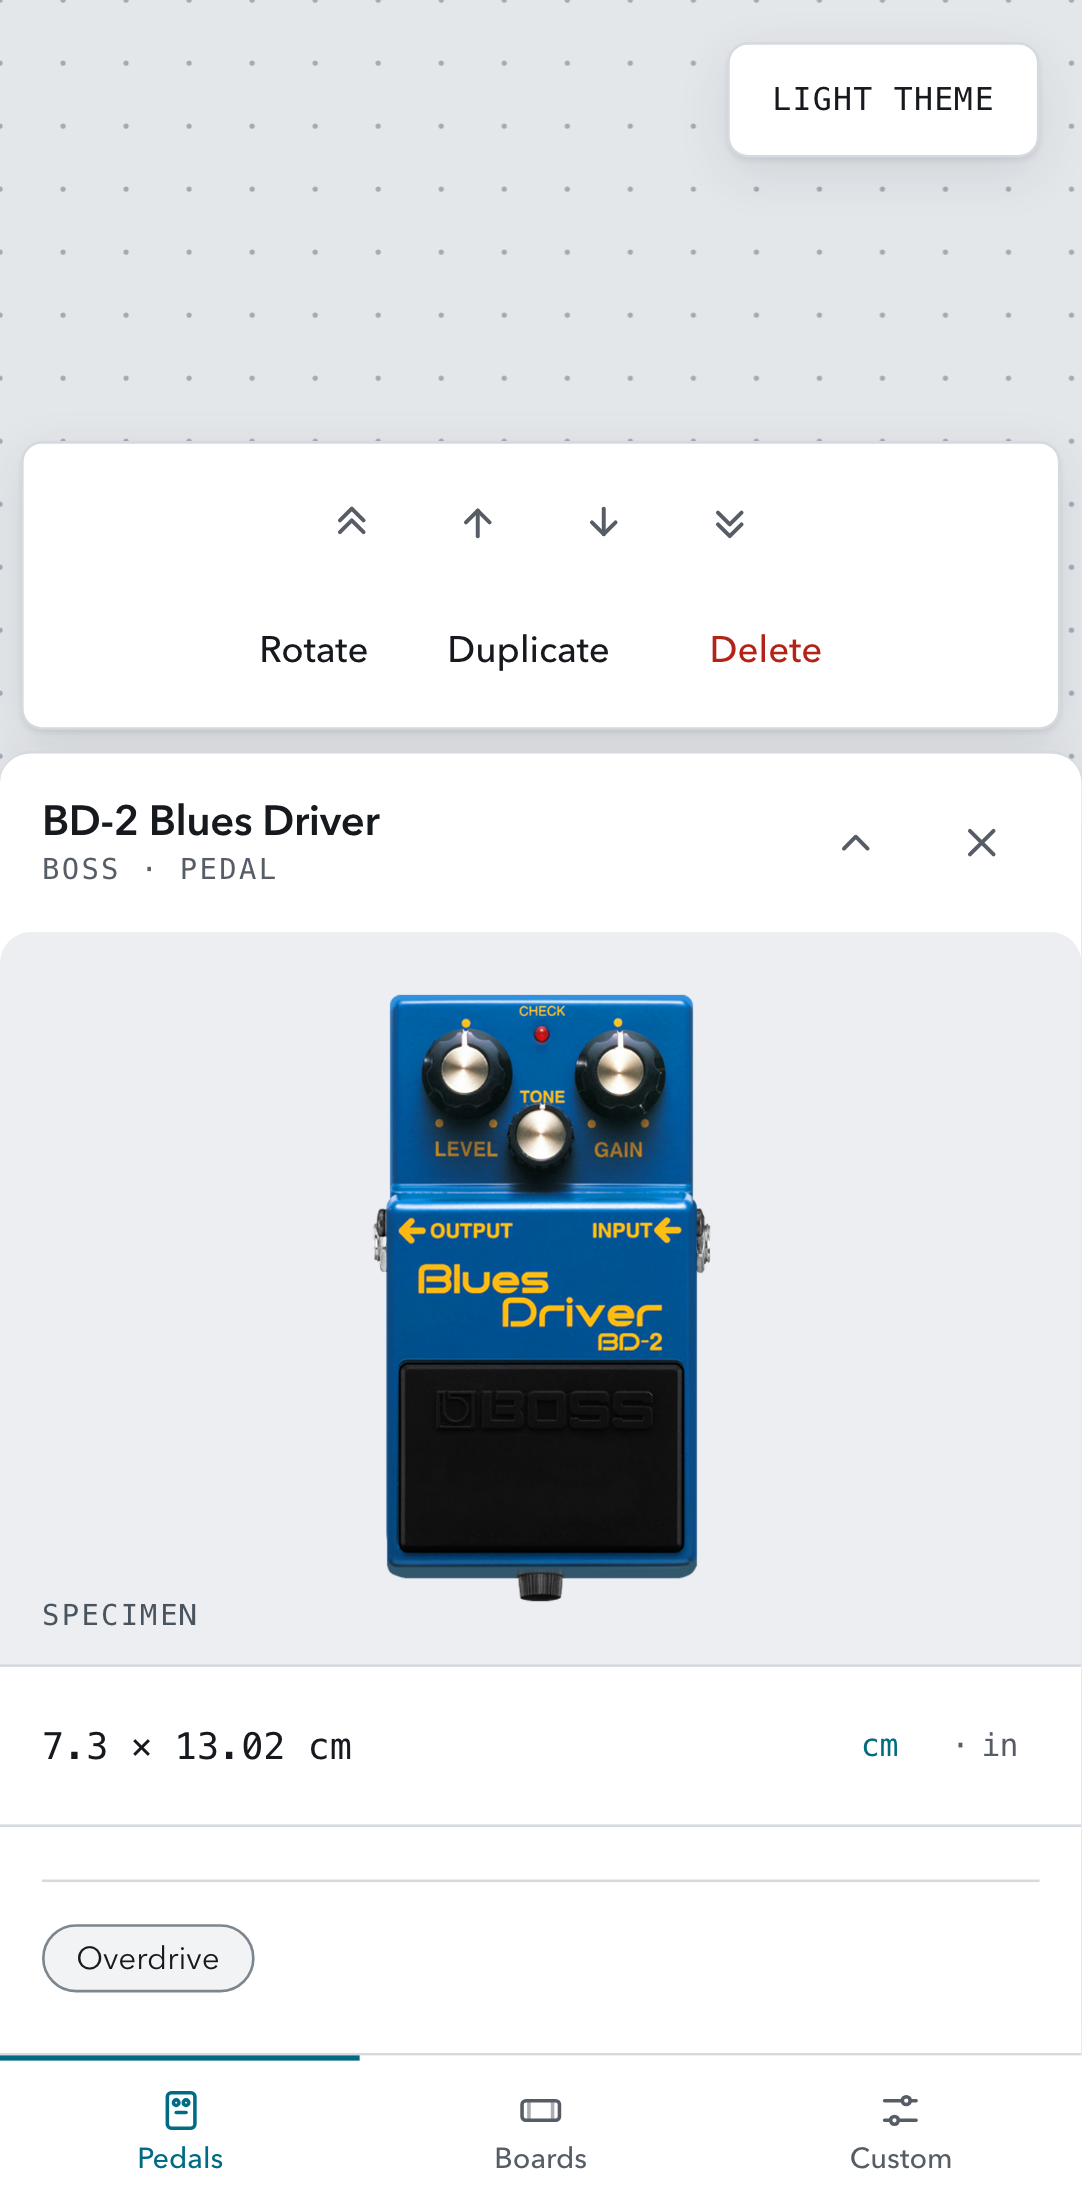
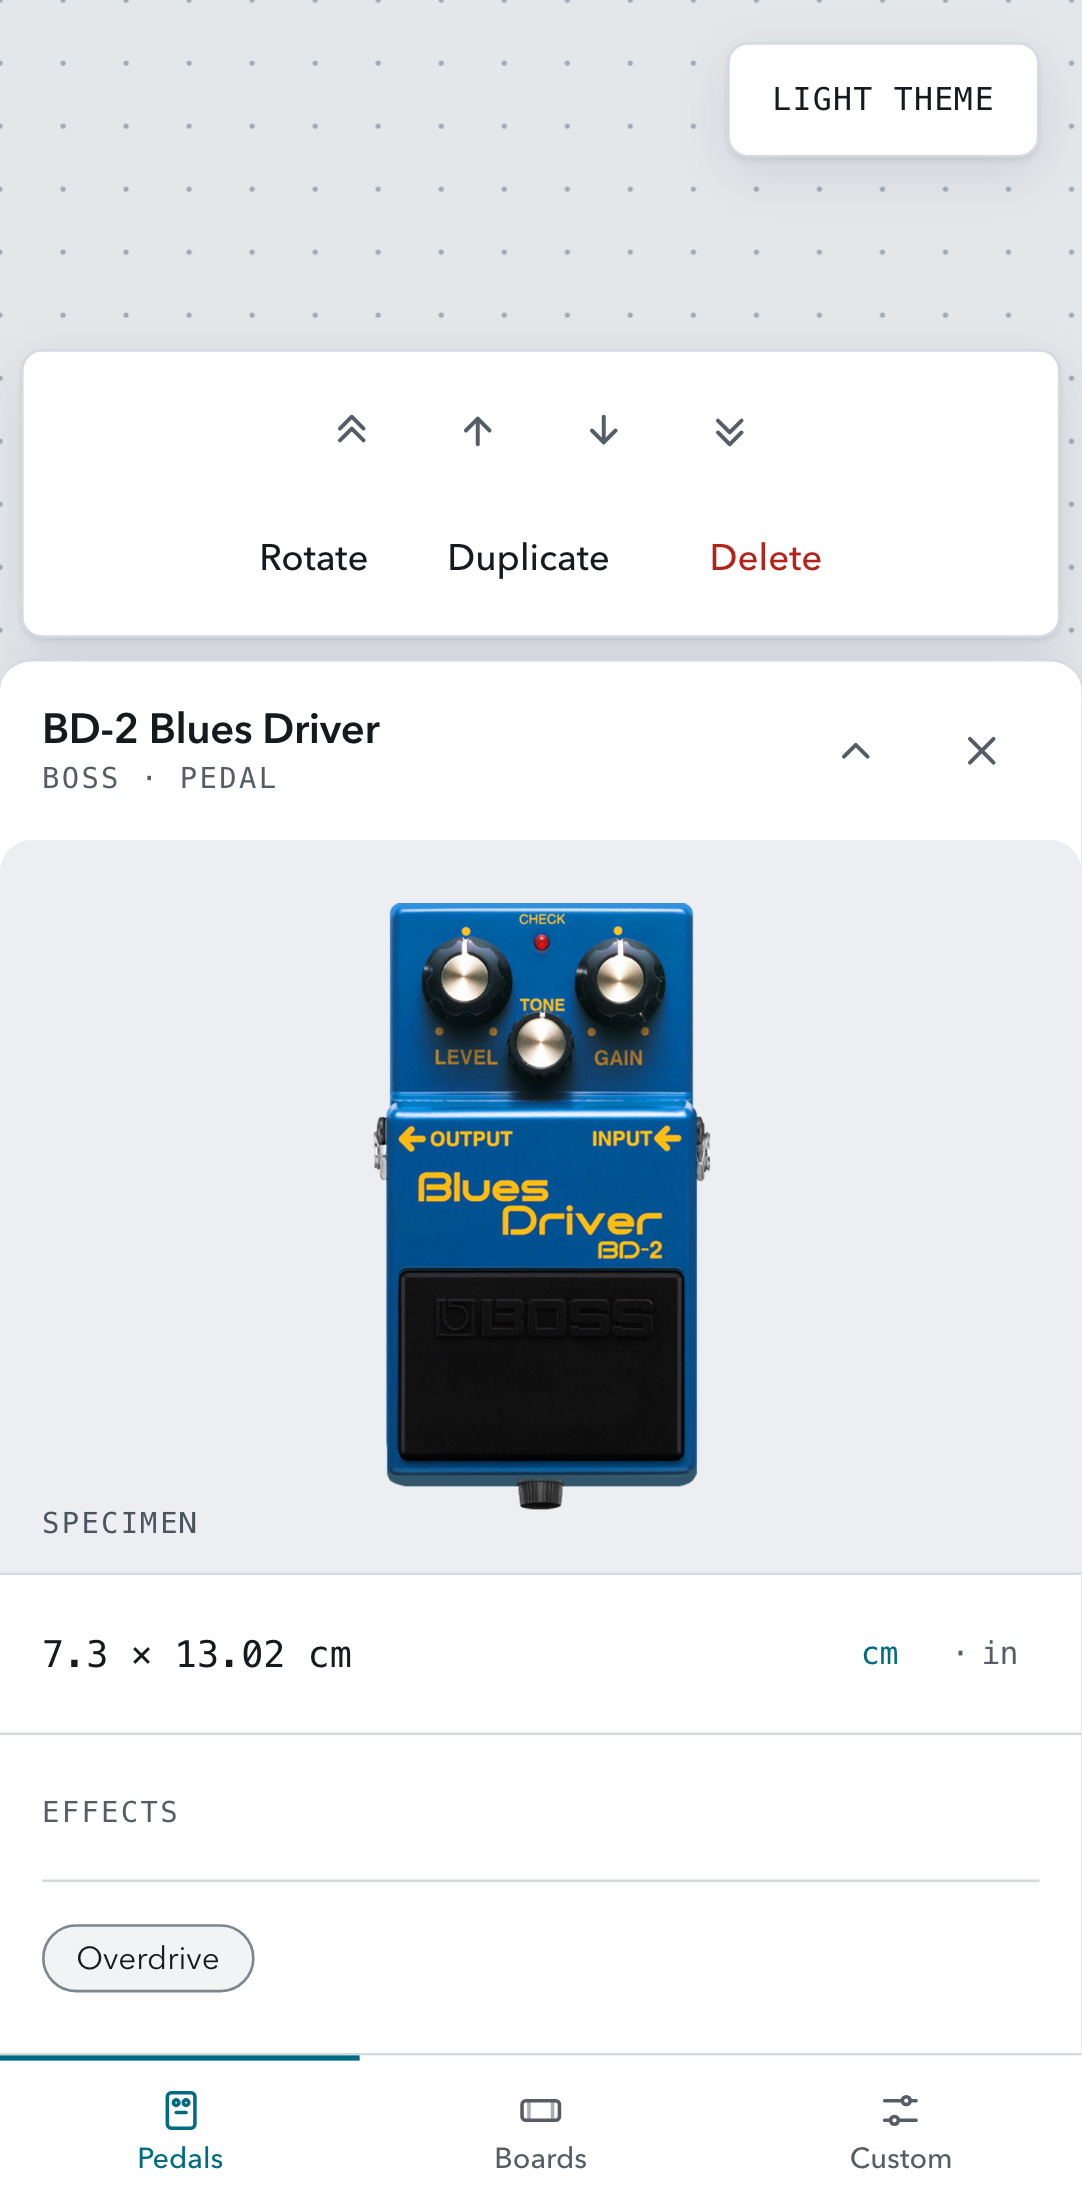
P2-03: round 3 code-review fixes (Specimen Cover)
- Scope the mobile peek's eyebrow/brand hide to the HEADER only (the rule was
  also hiding the expanded readout's EFFECTS/JACKS/POWER section titles).
- Bind onError on the peek sleeve img (while collapsed the banner is
  display:none, so the sleeve is the only requester — its failure must advance
  the loader ladder to the glyph fallback).
- Give the peek warning chip an aria-label with the full sentence (the bare
  'Overlap'/'Off board' text was under-descriptive for screen readers).
- e2e: assert the full warning band is hidden while collapsed (one live region),
  and hidden chip / visible band after expanding.

diff --git a/e2e/info-panel.spec.ts b/e2e/info-panel.spec.ts
@@ -159,15 +159,19 @@ test("the mobile peek shows the cover sleeve and warning chip, then expands to t
 	await expect(page.getByTestId("info-peek-dims")).toBeVisible();
 	await expect(page.getByTestId("info-preview")).toBeHidden();
 
-	// An overlap surfaces the compact chip in the peek.
+	// An overlap surfaces the compact chip in the peek (and NOT the full band,
+	// which is the expanded/desktop form) — exactly one live region is shown.
 	await page.getByTestId("duplicate-item").click();
 	await expect(page.getByTestId("info-warning-chip")).toBeVisible();
+	await expect(page.getByTestId("info-warning")).toBeHidden();
 
 	// Expand: the banner (hero) replaces the sleeve + status row.
 	await page.getByTestId("info-expand").click();
 	await expect(page.getByTestId("info-preview")).toBeVisible();
 	await expect(page.getByTestId("info-cover")).toBeHidden();
 	await expect(page.getByTestId("info-units")).toBeVisible();
+	await expect(page.getByTestId("info-warning")).toBeVisible();
+	await expect(page.getByTestId("info-warning-chip")).toBeHidden();
 });
 
 test("clearing the selection hides the panel", async ({ page }) => {

diff --git a/src/components/InfoPanel.tsx b/src/components/InfoPanel.tsx
@@ -160,7 +160,9 @@ export function InfoPanel() {
 	);
 
 	// The mobile-collapsed sleeve: image when available, else the glyph (a
-	// drawing is illegible at 64px).
+	// drawing is illegible at 64px). Binds onError too: while collapsed the
+	// banner is display:none (so its lazy img isn't requested), making the
+	// sleeve the only requester — the ladder must still advance on failure.
 	const sleeve = showImage ? (
 		<img
 			key={`sleeve:${imageSrc}:${preview.phase}`}
@@ -169,6 +171,7 @@ export function InfoPanel() {
 			alt=""
 			loading="lazy"
 			crossOrigin={preview.crossOrigin}
+			onError={preview.onError}
 		/>
 	) : (
 		<PedalIcon size={24} strokeWidth={1.5} />
@@ -253,6 +256,7 @@ export function InfoPanel() {
 						data-testid="info-warning-chip"
 						role="status"
 						aria-live="polite"
+						aria-label={warningLines.join(" ")}
 					>
 						{warningChip}
 					</span>

diff --git a/src/index.css b/src/index.css
@@ -2067,9 +2067,10 @@ body {
 	}
 
 	/* The peek collapses identity to one name line + a `brand · category`
-	 * subline (the eyebrow/brand lines are folded into it). */
-	.info-panel__eyebrow,
-	.info-panel__brand {
+	 * subline (only the HEADER eyebrow/brand fold away — section heads reuse
+	 * `.info-panel__eyebrow` and must stay). */
+	.info-panel__header .info-panel__eyebrow,
+	.info-panel__header .info-panel__brand {
 		display: none;
 	}
 
